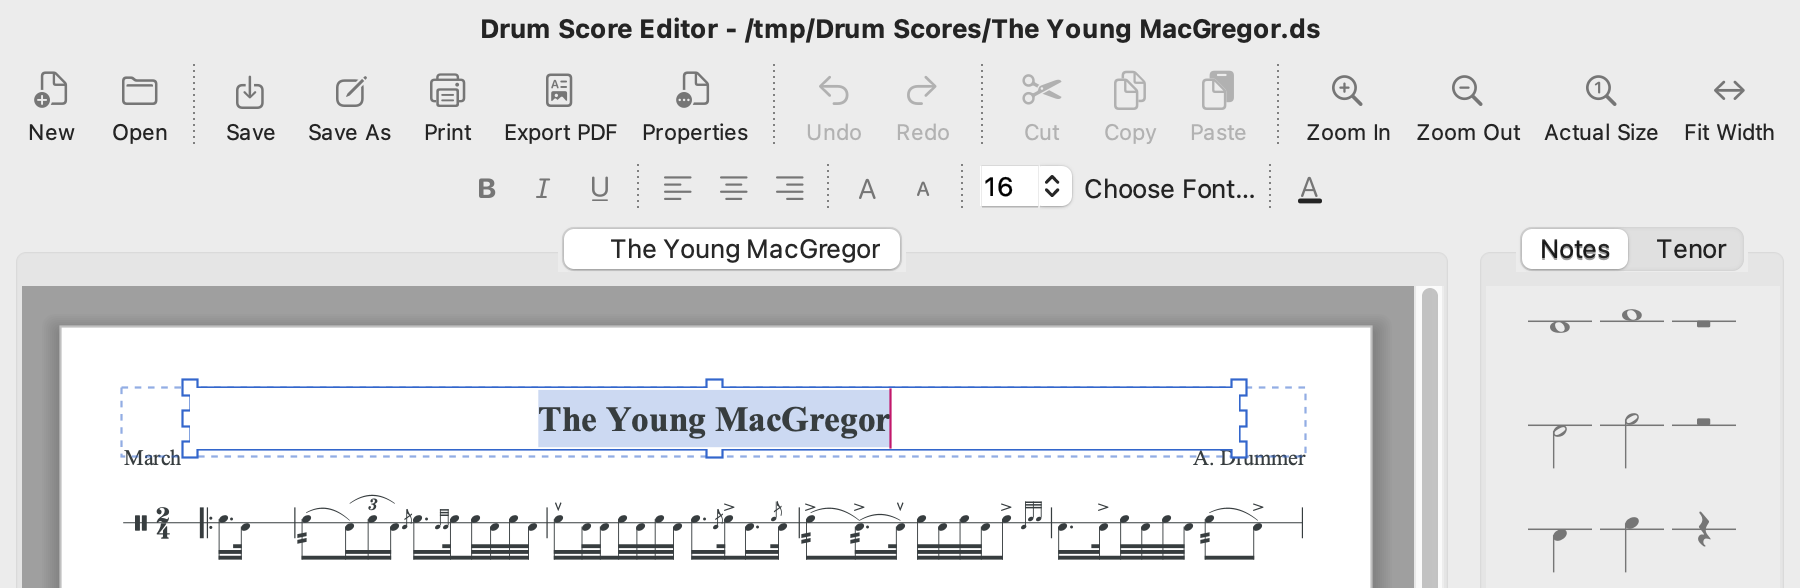
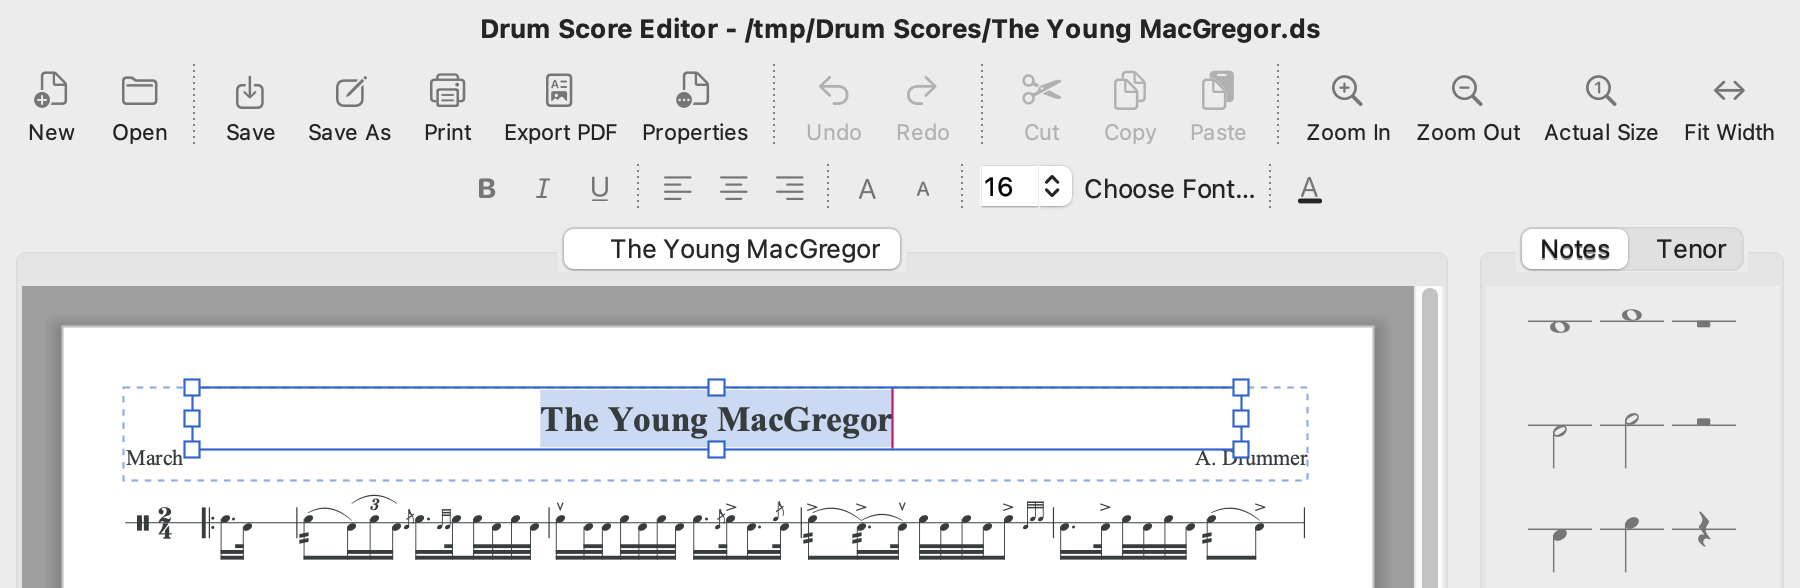
Five more pictures repainted, so every picture is at one size (editor #907)
Three pictures committed on 20 Nov were painted on a 108dpi display
and were a different size from the rest; they are repainted at the
size the others have, and their widths in the pages follow. The
line-heights picture's caption reads "Fit each line" as the
application now does, and the text toolbar picture shows a piece's
handles whole while it is typed in (editor #868).

Claude-Session: https://claude.ai/code/session_01FqutW5njqc7HSDMVnHwWTv

diff --git a/en/v4/layout.md b/en/v4/layout.md
@@ -161,7 +161,7 @@ On an arranged page you place the music areas yourself.
 
 You can tick `Page arranged by hand` only while the score has one page and one tune. To untick it, first delete the extra music areas, and move loose text and pictures into the header or footer.
 
-![A page arranged by hand with two music areas side by side, the right-hand one held and showing its handles](images/v4/arranged-page.png){: width="893" }
+![A page arranged by hand with two music areas side by side, the right-hand one held and showing its handles](images/v4/arranged-page.png){: width="898" }
 
 ## This score, or every new score
 

diff --git a/en/v4/rudiments.md b/en/v4/rudiments.md
@@ -42,7 +42,7 @@ A Swiss ruff or a ruff on the first note of a bar can be drawn before the barlin
 
 The `Engraving` pane is in `Settings` ▸ `New Score Defaults` for new scores, and in `File` ▸ `Score Properties…` for the score in front of you. See [Score Properties](topic:score-properties).
 
-![The same two bars with the ruff inside the bar, and with it drawn before the barline](images/v4/roughs-before-barline.png){: width="757" }
+![The same two bars with the ruff inside the bar, and with it drawn before the barline](images/v4/roughs-before-barline.png){: width="892" }
 
 ## Rolls and buzzes
 

diff --git a/en/v4/text-and-headers.md b/en/v4/text-and-headers.md
@@ -28,7 +28,7 @@ The header and footer change to match. In the Studio Edition you can also type s
 
 The footer works the same way: double-click it. Either way in, every tune's header and the footer can all be arranged until you leave.
 
-![A tune header being arranged: the header outlined, the title selected and showing its handles](images/v4/header-being-arranged.png){: width="893" }
+![A tune header being arranged: the header outlined, the title selected and showing its handles](images/v4/header-being-arranged.png){: width="898" }
 
 ## Arranging a header or footer
 

diff --git a/en/v4/whats-new.md b/en/v4/whats-new.md
@@ -44,7 +44,7 @@ See [Instruments and Staves](topic:instruments).
 
 See [Layout and Spacing](topic:layout) and [Rudiments, Rolls and Tuplets](topic:rudiments).
 
-![The same four lines drawn with Legacy, Uniform and Fit Each Line](images/v4/line-heights-compared.png){: width="897" }
+![The same four lines drawn with Legacy, Uniform and Fit each line](images/v4/line-heights-compared.png){: width="897" }
 ![A line of music with a padlock over its third bar](images/v4/bar-locks.png){: width="823" }
 
 ### Highlight pens
